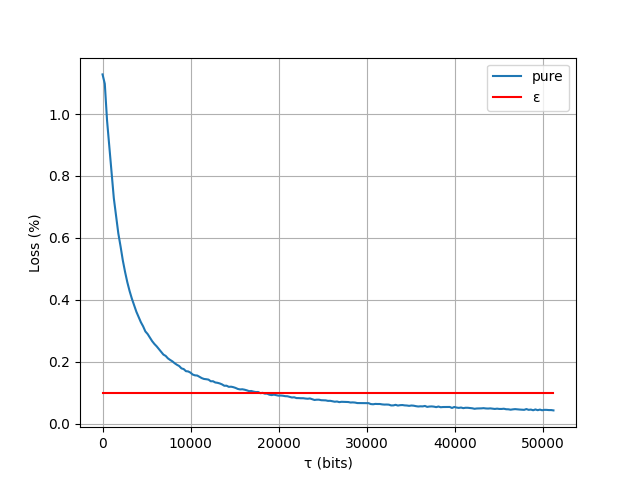
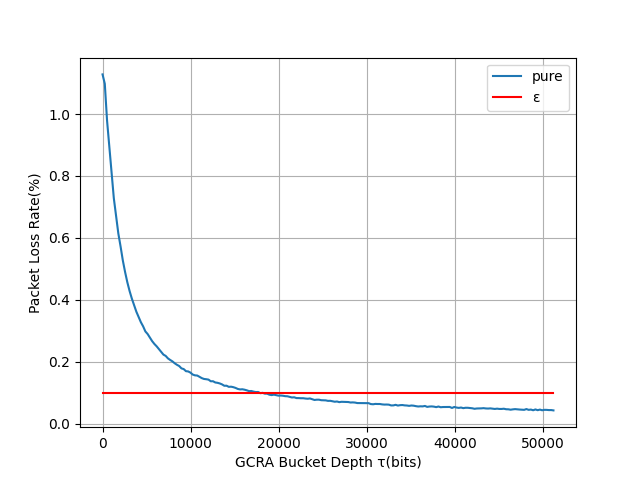
update uniform_half_noncompliant charts

Changed region(s): [[0.375, 0.9375, 0.6562, 1.0], [0.0312, 0.375, 0.0625, 0.6562]]

diff --git a/Simulation/source/skript.c b/Simulation/source/skript.c
@@ -134,7 +134,7 @@ int main(int argc, char *argv[])
         config.traffic_mode = TRAFFIC_MODE_UNIFORM;   ///< Set the traffic mode to uniform.
         modify_ini_file(configuration_path, &config); ///< Update the INI file with the current configuration.
 
-#ifdef NORMAL_MODE
+#ifndef APPEND_MODE
         // Prepare the data directory by removing existing data and creating new directories.
         sprintf(command, "rm -r %s", config.data_path);        ///< Command to remove the existing data directory.
         system(command);                                       ///< Execute the command.
@@ -147,7 +147,7 @@ int main(int argc, char *argv[])
         write_statistics_header_config(config, HEADER_TYPE_AVERAGE); ///< Write the header for average statistics.
         write_statistics_header_config(config, HEADER_TYPE_ALL);     ///< Write the header for all statistics.
         write_statistics_header_config(config, HEADER_TYPE_TAU);     ///< Write the header for tau statistics.
-
+#endif
         // Set additional configuration parameters for non-compliant mode.
         config.traffic_mode = TRAFFIC_MODE_NONCOMPLIANT_UNIFORM; ///< Update traffic mode to non-compliant uniform.
         config.noncompliant_mean = 155;                          ///< Set the mean for non-compliant configuration.
@@ -165,45 +165,6 @@ int main(int argc, char *argv[])
             sprintf(command, "python3 %s %s %s", PYTHON_COMPLIANT_AND_NONCOMPLIANT_TAU_CHART_PATH, name, configuration_path); ///< Command for compliant and non-compliant tau chart.
             system(command);                                                                                                  ///< Execute the command.
         }
-#endif
-
-#ifdef APPPEND_MODE
-        // Set additional configuration parameters for non-compliant mode.
-        config.traffic_mode = TRAFFIC_MODE_NONCOMPLIANT_UNIFORM; ///< Update traffic mode to non-compliant uniform.
-        config.noncompliant_mean = 155;                          ///< Set the mean for non-compliant configuration.
-        config.noncompliant_mode = NONCOMPLIANT_MODE_AVERAGE;    ///< Set the mode for non-compliant configuration.
-
-        // Loop through tau values and execute the main program for each.
-        for (long tau = 25600 + step; tau <= 51200; tau += step)
-        {
-            config.tau = tau;                             ///< Set the current tau value in the configuration.
-            modify_ini_file(configuration_path, &config); ///< Update the INI file with the new tau value.
-
-            sprintf(command, "../execution/main %s", configuration_path); ///< Command to execute the main program.
-            system(command);                                              ///< Execute the command.
-
-            // Run Python scripts for data analysis.
-            sprintf(command, "python3 %s %s %s", PYTHON_AVERAGE_LOSS_CHART_PATH, name, configuration_path); ///< Command for average loss chart.
-            system(command);                                                                                ///< Execute the command.
-
-            sprintf(command, "python3 %s %s %s", PYTHON_COMPLIANT_AND_NONCOMPLIANT_TAU_CHART_PATH, name, configuration_path); ///< Command for compliant and non-compliant tau chart.
-            system(command);                                                                                                  ///< Execute the command.
-        }
-#endif
-
-#ifdef VALIDATE_MODE
-        config.tau = default_tau;                                ///< Set the current tau value in the configuration.
-        config.traffic_mode = TRAFFIC_MODE_NONCOMPLIANT_UNIFORM; ///< Update traffic mode to non-compliant uniform.
-        config.noncompliant_mean = 155;                          ///< Set the mean for non-compliant configuration.
-        config.noncompliant_mode = NONCOMPLIANT_MODE_AVERAGE;    ///< Set the mode for non-compliant configuration.
-
-        config.link_queue_buffer = 10;
-
-        modify_ini_file(configuration_path, &config); ///< Update the INI file with the new tau value.
-
-        sprintf(command, "../execution/main %s 1", configuration_path); ///< Command to execute the main program.
-        system(command);                                                ///< Execute the command.
-#endif
         break; ///< End of the case for UNIFORM_DISTRIBUTION_NONCOMPLIANT.
     case UNIFORM_DISTRIBUTION_NONCOMPLIANT_DIFFERENT_NONCOMPLIANT_NUMBER:
         strcpy(name, "uniform_different_noncompliant_number");        ///< Set the name for the configuration.

diff --git a/Simulation/python/compliant_and_non_compliant_tau.py b/Simulation/python/compliant_and_non_compliant_tau.py
@@ -30,8 +30,8 @@ title = 'Packet Loss with different τ ({}) : '.format(name)
 # compliant
 plt.plot(tau, compliant_loss_pure ,linestyle='-', label='pure', alpha = 1)
 plt.plot(tau, [float(config['simulation']['error'])*100.0 for i in tau], linestyle='-', color = 'red', label='ε')
-plt.ylabel('Loss (%)')
-plt.xlabel('τ (bits)')
+plt.xlabel('GCRA Bucket Depth τ(bits)')
+plt.ylabel('Packet Loss Rate(%)')
 plt.legend()
 plt.grid(True)
 # plt.title(title+'Compliant')
@@ -41,8 +41,8 @@ plt.cla()
 # noncompliant
 plt.plot(tau, noncompliant_loss_pure ,linestyle='-', label='pure', alpha = 1)
 plt.plot(tau, [float(config['simulation']['error'])*100.0 for i in tau], linestyle='-', color = 'red', label='ε')
-plt.ylabel('Loss (%)')
-plt.xlabel('τ (bits)')
+plt.xlabel('GCRA Bucket Depth τ(bits)')
+plt.ylabel('Packet Loss Rate(%)')
 plt.legend()
 plt.grid(True)
 # plt.title(title+'Non-compliant')
@@ -53,23 +53,23 @@ plt.cla()
 # compliant
 plt.plot(tau, compliant_loss_all ,linestyle='-', label='all', alpha = 1)
 plt.plot(tau, [float(config['simulation']['error'])*100.0 for i in tau], linestyle='-', color = 'red', label='ε')
-plt.ylabel('Loss (%)')
-plt.xlabel('τ (bits)')
+plt.xlabel('GCRA Bucket Depth τ(bits)')
+plt.ylabel('Packet Loss Rate(%)')
 plt.legend()
 plt.grid(True)
-# plt.title(title+'Compliant')
-plt.title('Compliant SLA')
+plt.title('Uniform Distribution : Half Compliant SLA(120)')
+# plt.title('Compliant SLA')
 plt.savefig(IMAGE_PATH_COMPLIANT.format(name, 'all'))
 plt.cla()
 
 # noncompliant
 plt.plot(tau, noncompliant_loss_all ,linestyle='-', label='all', alpha = 1)
 plt.plot(tau, [float(config['simulation']['error'])*100.0 for i in tau], linestyle='-', color = 'red', label='ε')
-plt.ylabel('Loss (%)')
-plt.xlabel('τ (bits)')
+plt.xlabel('GCRA Bucket Depth τ(bits)')
+plt.ylabel('Packet Loss Rate(%)')
 plt.legend()
 plt.grid(True)
-plt.title('Non-compliant SLA')
+plt.title('Uniform Distribution : Half Non-ompliant SLA(155)')
 # plt.title(title+'Non-compliant')
 plt.savefig(IMAGE_PATH_NONCOMPLIANT.format(name, 'all'))
 plt.cla()

diff --git a/Simulation/source/advanced.c b/Simulation/source/advanced.c
@@ -8,6 +8,7 @@
 #define CONFIGURATION_PATH "../configuration/advanced.ini" ///< Path to the main configuration file
 #define CSV_PATH "../configuration/csv/advanced.csv"       ///< Path to the main csv file
 
+#define TEST_AREA
 /** @brief Compilation command
  *  @code{.sh}
  *  gcc ./advanced.c inih/ini.c -o ../execution/advanced -lm
@@ -50,8 +51,11 @@ int main(int argc, char *argv[])
 #ifdef SHOW_CONFIGURATION
     show_configuration_common_configuration(config); /** @brief Display current configuration if enabled. */
 #endif
-    test_configuration_h_common_configuration(configuration_path);
+
+#ifdef TEST_AREA
+    // test_configuration_h_common_configuration(configuration_path);
     test_csv_function(CSV_PATH, &config);
+#endif
 
 #ifdef PRINT_EXECUTION_TIME
     execute_clock = clock() - execute_clock;                      ///< Calculate the elapsed execution time.
